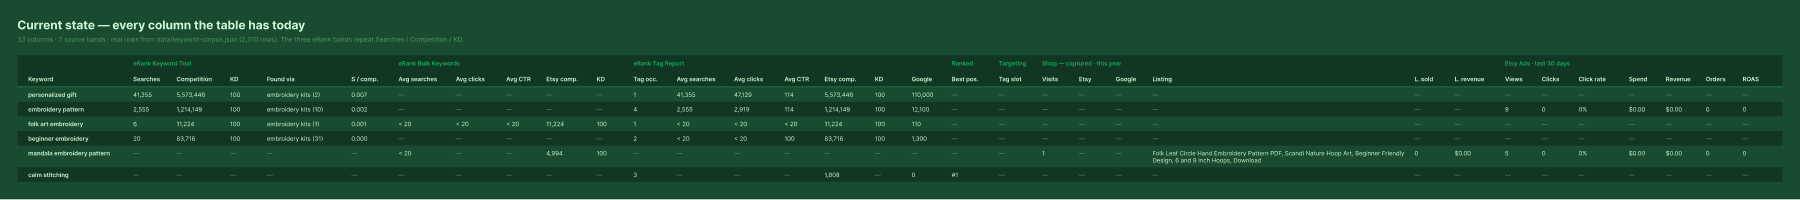
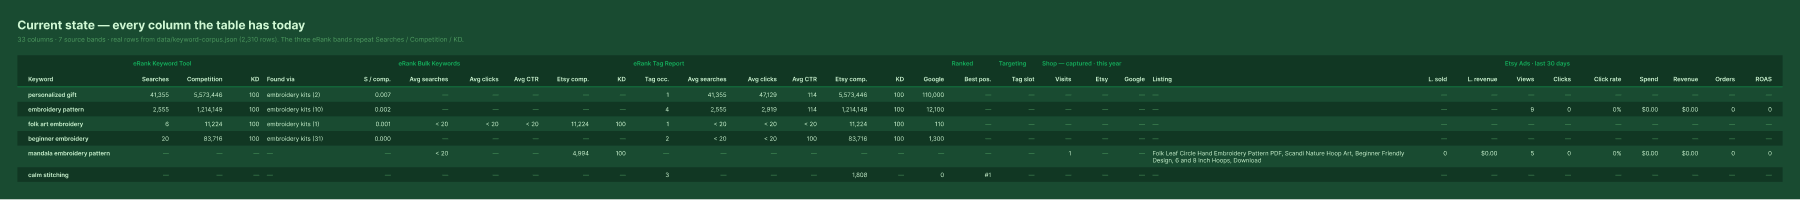
docs(openspec): alignment by data type, and Katy's header copy
Katy, 2026-09-21: "I made some header copy edits - title case, less
abbreviation, more clarity. Don't lose them." Plus: numeric fields
right-aligned, date fields right-aligned, text fields left-aligned.

Her edits were made directly in Figma frame 7:255 and are preserved
verbatim: Searches -> Search Volume, Etsy comp. -> Etsy Competition,
Avg CTR -> Avg CTR %, Google -> Google Volume, Tag occ. -> Tag
Occurrence, S / comp. -> Search / Competition, Best pos. -> Best
Position, Tag slot -> Tag Slot. Recorded as Decision 9. One typo
corrected in place: Posittion -> Position.

Alignment (Decision 8) turned out to be a drawing bug, not a feature
request: KeywordTable.tsx:917 and :946 already render
`column.numeric ? "text-right" : "text-left"`, and 30 of 33 columns
carry numeric: true. Round 02.3 was drawn uniformly left-aligned, which
misrepresented production. Both frames corrected — 231 and 182 cells.
No code change needed for numbers or text; no date column exists yet,
so that half of the rule is recorded as standing guidance.

Screenshots refreshed.

diff --git a/openspec/changes/erank-one-band/design.md b/openspec/changes/erank-one-band/design.md
@@ -72,13 +72,13 @@ Taken from `COLUMNS` in `components/KeywordTable.tsx`, not from the proposal's p
 | --- | --- |
 | Primary file URL | [`5zM3iearA5XFhHdjA0lV4D`](https://www.figma.com/design/5zM3iearA5XFhHdjA0lV4D/Document?node-id=7-2) — shared with #508 at Katy's direction, 2026-09-20: *"lets use the figma from 508 to kick off 509."* |
 | Round 02.3 | Page `02.3 Proposed — full table` (`7:2`) — **the whole table, both states, drawn from the corpus.** |
-| As-is frame | `Round 02.3 — Current state · 33 columns` (`7:3`), 3,325 × 368. All 33 columns across 7 bands. The three eRank bands visibly repeat Searches / Competition / KD. |
-| Proposed frame | `Round 02.3 — Proposed · 26 columns` (`7:255`), 2,717 × 368. One eRank band of 10; `Ranked`, `Targeting`, `Shop — captured` and `Etsy Ads` carry the same columns, values and order as the as-is frame. |
+| As-is frame | `Round 02.3 — Current state · 33 columns` (`7:3`), 3,325 × 368. All 33 columns across 7 bands, with production's current header copy. The three eRank bands visibly repeat Searches / Competition / KD. |
+| Proposed frame | `Round 02.3 — Proposed · 26 columns` (`7:255`), 2,717 × 381. One eRank band of 10; `Ranked`, `Targeting`, `Shop — captured` and `Etsy Ads` carry the same columns, values and order as the as-is frame. **Carries Katy's header copy edits (Decision 9), made in Figma on 2026-09-21 and preserved verbatim.** |
 | Data | Not mocked. Six real rows rendered through the app's own formatting rules (`num`, `bulkValueLabel`, `demandRatio`) from `data/keyword-corpus.json`. `mandala embroidery pattern` is included specifically because it is one of the few rows carrying **both** Shop and Etsy Ads data, so those bands are populated rather than dashes in both frames. `folk art embroidery` shows the precision merge; `beginner embroidery` shows the Decision 2 collision. |
 | Libraries / version | **None — gate still open.** `get_libraries` on this file returns `libraries_added_to_file: []`, and MVDS is not among the libraries available to add, so it cannot be enabled from here at all. Drawn on `app/globals.css` tokens (`--color-background-primary` `#194b31`, `--color-background-secondary` `#113723`, `--color-text-primary` `#cff7d3`, `--color-text-muted` `#4d9a60`, `--color-accent-primary` `#14ae5c`). Inter throughout; Fraunces headings not used, so the titles are not type-faithful. |
 | Code Connect | No mappings to update. |
 | Breakpoints | S · 480px / L · 1024px. Both frames draw the full table at its natural width, which is what the Big Join rule accepts at every breakpoint. |
-| Status | Round 02.3 drawn and verified by screenshot. **MVDS gate open.** |
+| Status | Round 02.3 drawn, alignment corrected to match production, header copy edited by Katy in-file. Verified by screenshot. **MVDS gate open.** |
 
 **Drawn width is not production width.** These frames are 3,325px and 2,717px; production measured **5,108px** for the as-is. The frames use compact hugging widths and six rows, so the absolute numbers understate — #508 recorded the same error at 66%. What the pair is evidence *for* is which columns exist and where, not how wide the result will be.
 
@@ -99,6 +99,27 @@ Taken from `COLUMNS` in `components/KeywordTable.tsx`, not from the proposal's p
 **7 — `S / comp.` survives the merge and gets more rows, with censoring carried into the ratio.** The proposal's inventory of eRank fields missed this column. It is `kt.ratio` — searches divided by competition, computed in `lib/keyword-metrics.ts` — and it is the one eRank column that is *derived* rather than reported, which is how it escaped a list organised by which tool printed what. It must not be dropped: dropping it would be the single real regression available in this change.
 
 Because it reads the Keyword Tool sub-object directly, it renders on **1,931 rows today**. Recomputed from the *merged* searches and competition it renders on **2,078** — 147 more. Of those 147, **114 rest on a censored searches value**, where the true ratio is an upper bound rather than a number. Consistent with Decision 6, the ratio inherits the censoring and renders `< 0.003` rather than `0.003`; the remaining 33 gain an exact ratio. `demandRatio()` changes signature from the Keyword Tool sub-object to the merged one, and returns the censored flag alongside the value.
+
+**8 — Alignment follows the data type: numbers right, dates right, text left.** Katy, 2026-09-21. This is **not a new behaviour** — `components/KeywordTable.tsx:917` and `:946` already render `column.numeric ? "text-right" : "text-left"`, and 30 of the 33 columns carry `numeric: true`. The three left-aligned columns are `Keyword`, `Found via` and `Listing`, which are the three without a `value` accessor. Round 02.3 was originally drawn uniformly left-aligned, which misrepresented production; both frames are now corrected to match. **No code change is required for numbers or text.**
+
+**There is no date column today**, so the date half of the rule has nothing to bind to yet. It is recorded as the standing rule for the table so that the next date field — a capture date is the obvious candidate, since every source sub-object already carries `capture` — lands right-aligned without re-litigating it. `Tag slot` is worth noting: it reads as text but carries `numeric: true` in code and so renders right today; the drawing follows production rather than quietly reclassifying it.
+
+**9 — Header copy: Title Case, fewer abbreviations, clearer names.** Katy edited the proposed frame directly, 2026-09-21: *"title case, less abbreviation, more clarity."* Her labels are preserved verbatim in frame `7:255` and are the contract for the rename:
+
+| Today | Proposed |
+| --- | --- |
+| `Searches` | `Search Volume` |
+| `Etsy comp.` | `Etsy Competition` |
+| `Avg CTR` | `Avg CTR %` |
+| `Google` (Tag Report) | `Google Volume` |
+| `Tag occ.` | `Tag Occurrence` |
+| `S / comp.` | `Search / Competition` |
+| `Best pos.` | `Best Position` |
+| `Tag slot` | `Tag Slot` |
+
+`Best Position` and `Tag Slot` wrap onto two lines in the drawing (a `U+2028` line separator), which is a header-height decision the implementation should honour rather than flatten. One typo was corrected in place — `Posittion` → `Position`; say the word if that was deliberate.
+
+**This grows the change.** Consolidating eRank does not by itself require renaming `Best Position` or `Tag Slot`, which live in bands this change otherwise does not touch. The rename is carried anyway because the table is read as one surface and a half-renamed header row is worse than either end state. **Still open:** the Shop and Etsy Ads headers Katy did not reach — `L. sold`, `L. revenue`, `Click rate`, `Views`, `Clicks` — remain abbreviated, and whether her rule extends to them is her call, not an inference.
 
 ## Risks / Trade-offs
 
